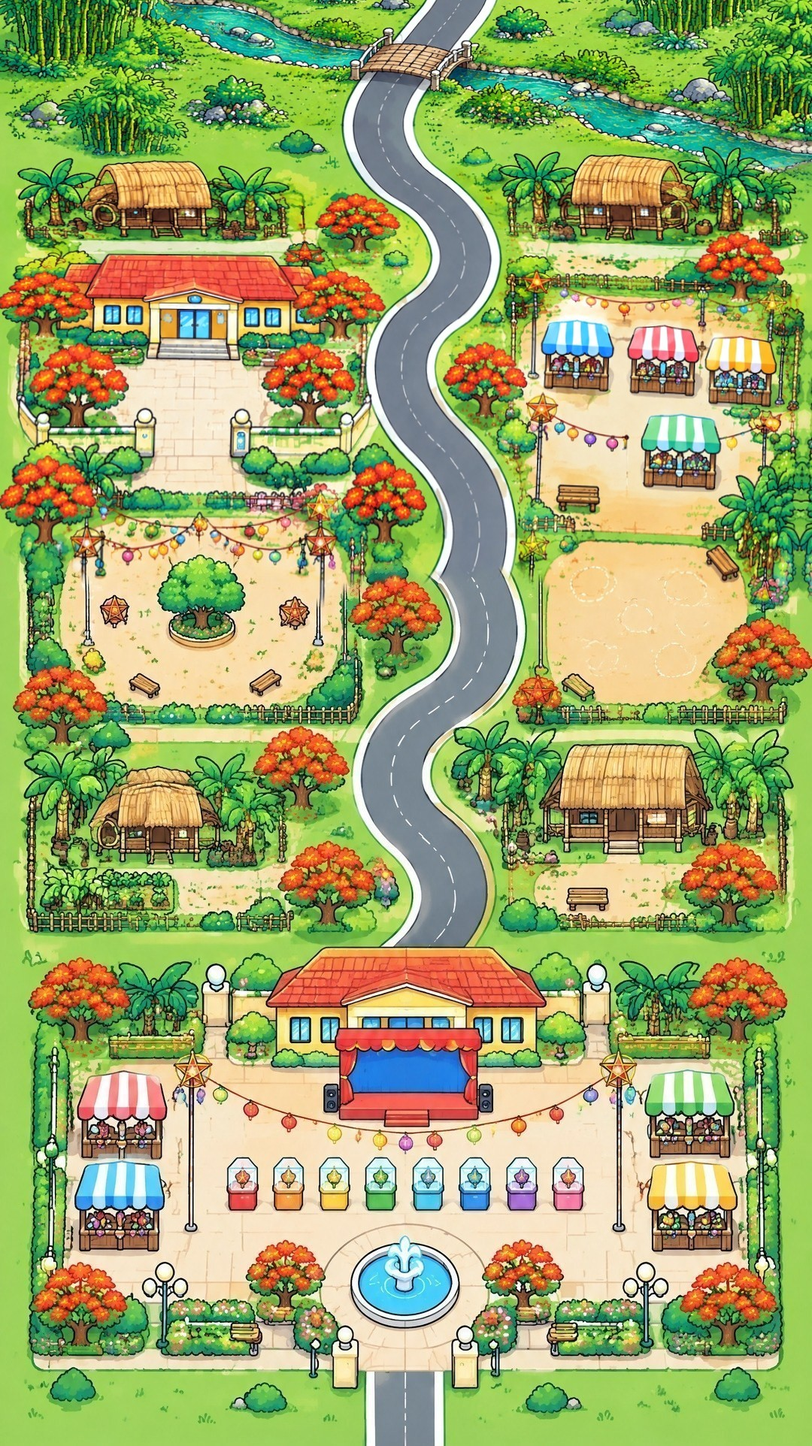
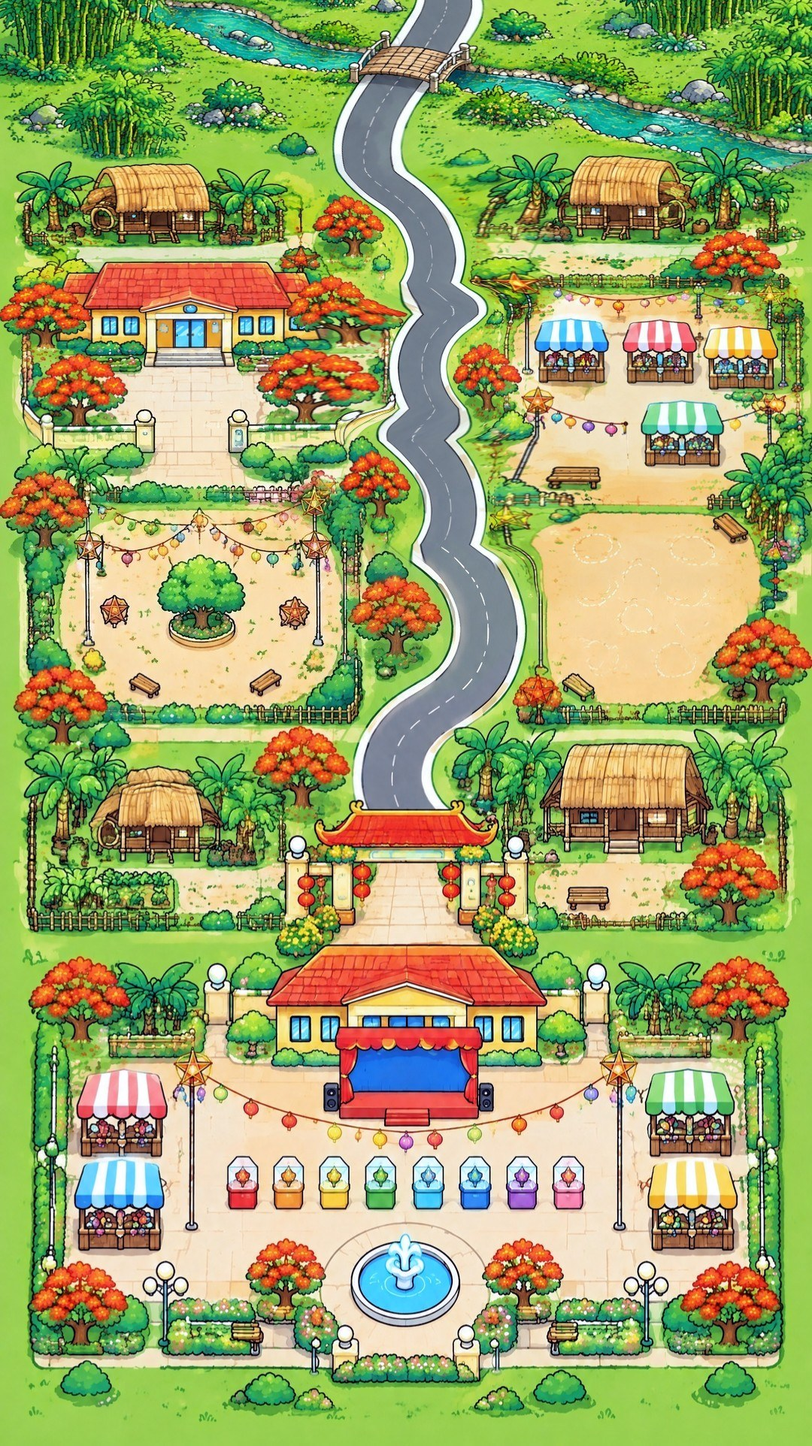
Bản đồ 9 mùa: hết méo nhà, hoa → mỏ chuyển dần, đường CLB dừng ở cổng
va-cho-noi.py không co giãn dọc ảnh sinh, đường cắt lách đất trống, nắn mặt đường theo hàng trong dải hẹp quanh đường.
Nối 6 dùng vd3 (khung 1920), cuối bản đồ dùng vd1.

diff --git a/phim-clb/tools/va-cho-noi.py b/phim-clb/tools/va-cho-noi.py
@@ -1,13 +1,14 @@
 # Vá chỗ nối giữa hai mùa trên ảnh dài: TopView vẽ lại dải chuyển cảnh (ảnh sinh từ một khung cắt quanh vết nối),
 # đặt dải mới vào lại ảnh dài. Hai mép dải không hoà mờ cả vùng mà cắt theo ĐƯỜNG CẮT TỐI ƯU (như noi-mua.py) ở chỗ
 # ảnh mới giống ảnh cũ nhất, viền mềm vài px; trước đó chỉnh màu ảnh mới cho khớp ảnh cũ (trung bình / độ lệch từng kênh
-# đo ở hai mép giữ nguyên) và kéo ảnh mới cho trùng hình ảnh cũ ở hai mép (SIFT + affine, rồi luồng quang học trơn).
-# python tools/va-cho-noi.py <dài vào.jpg> <dài ra.jpg> <tâm y> <cao khung> <ảnh sinh.png>
+# đo ở hai mép giữ nguyên) và dịch / co ngang ảnh mới cho đường trùng ảnh cũ (không co giãn dọc, xem dưới).
+# python tools/va-cho-noi.py <dài vào.jpg> <dài ra.jpg> <tâm y> <cao khung> <ảnh sinh.png> [tren]
 import sys
 import numpy as np
 from PIL import Image, ImageFilter
 
 vao, ra, TAM, CAO, sinh = sys.argv[1], sys.argv[2], int(sys.argv[3]), int(sys.argv[4]), sys.argv[5]
+CHI_TREN = 'tren' in sys.argv[6:]                           # chỉ giữ mép trên (đoạn cuối bản đồ: phần dưới lấy hết ảnh sinh)
 dai = np.asarray(Image.open(vao).convert('RGB')).astype(np.float32)
 W = dai.shape[1]
 y0 = TAM - CAO // 2
@@ -15,49 +16,74 @@ cu = dai[y0:y0 + CAO].copy()
 moi = np.asarray(Image.open(sinh).convert('RGB').resize((W, CAO), Image.LANCZOS)).astype(np.float32)
 MEP = CAO * 22 // 100                                         # dải cắt tìm trong 0..MEP (trên) và CAO-MEP..CAO (dưới)
 
-# ảnh sinh thường lệch tỉ lệ vài phần trăm (đường lệch 10–100 px ở mép). Bước 2 đo luồng quang học từ ảnh cũ sang ảnh sinh CHỈ ở hai mép
-# giữ nguyên, khớp mỗi mép bằng một mặt bậc hai trơn (bỏ điểm lệch lạ), rồi kéo ảnh sinh theo mặt đó: trọng số 1 ở mép,
-# giảm dần về 0 giữa dải. Mặt trơn nên không kéo nhòe chi tiết (lau sậy, cây) như khi dùng luồng từng điểm.
+# TopView vẽ lại thường thu nhỏ hình theo chiều dọc 15–25% (vật ở hai mép nhỏ hơn bản gốc) và lệch ngang vài chục px.
+# KHÔNG co giãn dọc để bù (bản 31/10 làm vậy nên nhà, container ở dải chuyển bị kéo méo): mỗi mép chỉ khớp
+#   ngang x' = a·x + b (để đường liền) và dịch dọc d (đo ở nửa trong của mép, sát chỗ cắt), từ điểm SIFT khớp (RANSAC);
+# a, b, d nội suy trơn theo hàng giữa hai mép. Hình trong ảnh sinh giữ nguyên tỉ lệ TopView vẽ.
 import cv2
 xam = lambda a: cv2.cvtColor(np.clip(a, 0, 255).astype(np.uint8), cv2.COLOR_RGB2GRAY)
 gx, gy = np.meshgrid(np.arange(W, dtype=np.float32), np.arange(CAO, dtype=np.float32))
-
-# bước 1 (lệch lớn, tới 100 px): mỗi mép một phép affine từ điểm SIFT khớp (RANSAC), nội suy affine theo hàng giữa hai mép
 sift = cv2.SIFT_create(4000)
 kb, db = sift.detectAndCompute(xam(moi), None)
-def affine(y0, y1):
+def khop(y0, y1, trong):
     m = np.zeros((CAO, W), np.uint8); m[y0:y1] = 255
     ka, da = sift.detectAndCompute(xam(cu), m)
     cap = [p for p, q in cv2.BFMatcher().knnMatch(da, db, k=2) if p.distance < 0.75 * q.distance]
     A = np.float32([ka[p.queryIdx].pt for p in cap]); B = np.float32([kb[p.trainIdx].pt for p in cap])
-    M, ok = cv2.estimateAffine2D(A, B, ransacReprojThreshold=4, maxIters=5000)
-    print('affine', y0, y1, 'khớp', int(ok.sum()), '/', len(cap), np.round(M, 3).tolist(), file=sys.stderr)
-    return M
-Mt, Md = affine(0, MEP), affine(CAO - MEP, CAO)
-s = np.clip((gy - MEP / 2) / (CAO - MEP), 0, 1); s = s * s * (3 - 2 * s)
-M = Mt[None, None] * (1 - s)[..., None, None] + Md[None, None] * s[..., None, None]
-mx = M[..., 0, 0] * gx + M[..., 0, 1] * gy + M[..., 0, 2]; my = M[..., 1, 0] * gx + M[..., 1, 1] * gy + M[..., 1, 2]
-moi = cv2.remap(moi, mx.astype(np.float32), my.astype(np.float32), cv2.INTER_LINEAR, borderMode=cv2.BORDER_REFLECT)
+    M, ok = cv2.estimateAffine2D(A, B, ransacReprojThreshold=5, maxIters=5000)
+    ok = ok.ravel().astype(bool)
+    a, b = np.polyfit(A[ok, 0], B[ok, 0], 1)                     # ngang: x' = a·x + b
+    sat = ok & (A[:, 1] >= trong[0]) & (A[:, 1] < trong[1])
+    d = float(np.median((B[sat] if sat.sum() >= 5 else B[ok])[:, 1] - (A[sat] if sat.sum() >= 5 else A[ok])[:, 1]))
+    print('khớp', y0, y1, 'điểm', int(ok.sum()), 'a b d', round(a, 3), round(b, 1), round(d, 1), file=sys.stderr)
+    return a, b, d
+kt = khop(0, MEP, (MEP // 2, MEP))
+kd = khop(CAO - MEP, CAO, (CAO - MEP, CAO - MEP // 2)) if not CHI_TREN else kt
+s = np.clip((gy - MEP) / max(CAO - 2 * MEP, 1), 0, 1); s = s * s * (3 - 2 * s)
+a, b, d = [kt[i] * (1 - s) + kd[i] * s for i in range(3)]
+moi = cv2.remap(moi, (a * gx + b).astype(np.float32), (gy + d).astype(np.float32), cv2.INTER_LINEAR, borderMode=cv2.BORDER_REFLECT)
 
-# bước 2 (lệch nhỏ còn lại)
-luong = cv2.DISOpticalFlow_create(cv2.DISOPTICAL_FLOW_PRESET_MEDIUM).calc(xam(cu), xam(moi), None)
-bac2 = lambda x, y: np.stack([np.ones_like(x), x, y, x * x, x * y, y * y], -1)
-def mat_tron(y0, y1):
-    ys, xs = np.mgrid[y0:y1:8, 0:W:8]
-    f = luong[ys, xs].reshape(-1, 2); A = bac2(xs.ravel() / W, ys.ravel() / CAO)
-    ok = np.ones(len(f), bool)
-    for _ in range(3):                                         # bỏ điểm lệch xa mặt (luồng sai ở chỗ phẳng / khác hình)
-        hs = np.linalg.lstsq(A[ok], f[ok], rcond=None)[0]
-        r = np.abs(A @ hs - f).sum(1); ok = r < max(2.0, 2.5 * np.median(r[ok]))
-    return bac2(gx / W, gy / CAO) @ hs
-yy = np.arange(CAO, dtype=np.float32)[:, None]
-tt = lambda d: 1 - np.clip(d / (CAO * 0.18), 0, 1) ** 2 * (3 - 2 * np.clip(d / (CAO * 0.18), 0, 1))
-wt, wd = tt(np.clip(yy - MEP, 0, None)), tt(np.clip(CAO - MEP - yy, 0, None))   # 1 ở mép trên / dưới → 0 giữa
-keo = mat_tron(0, MEP) * wt[..., None] + mat_tron(CAO - MEP, CAO) * wd[..., None]
-print('kéo mép trên', np.round(keo[MEP // 2, ::W // 4].tolist(), 1).tolist(), 'mép dưới', np.round(keo[CAO - MEP // 2, ::W // 4].tolist(), 1).tolist(), file=sys.stderr)
-moi = cv2.remap(moi, gx + keo[..., 0].astype(np.float32), gy + keo[..., 1].astype(np.float32), cv2.INTER_LINEAR, borderMode=cv2.BORDER_REFLECT)
+# khớp riêng MẶT ĐƯỜNG: điểm SIFT nằm chủ yếu trên nhà cửa nên đường vẫn có thể lệch ngang vài chục px ở chỗ cắt.
+def tam_duong(a, y):
+    mx, mn = a[y].max(-1), a[y].min(-1)
+    r, b = a[y, :, 0], a[y, :, 2]
+    xs = np.flatnonzero((mx - mn < 38) & (mx > 95) & (mx < 165) & (b >= r - 4))     # nhựa đường xám ngả xanh
+    if xs.size < 40: return None
+    runs = [r for r in np.split(xs, np.flatnonzero(np.diff(xs) > 14) + 1) if 60 <= r[-1] - r[0] <= 230 and r.size > 0.6 * (r[-1] - r[0])]
+    return min(((r[0] + r[-1]) / 2 for r in runs), key=lambda c: abs(c - W / 2)) if runs else None
+TIM0 = CAO * 38 // 100
+# lệch đường theo TỪNG HÀNG (đường cong nên lệch dọc thành lệch ngang khác nhau mỗi hàng): đo ở vùng tìm cắt hai mép,
+# lọc trung vị, hàng không thấy đường thì nội suy; ngoài hai vùng giảm mượt về 0 trong 160 hàng
+ys = np.arange(CAO); dx = np.full(CAO, np.nan)
+for y in np.r_[np.arange(0, TIM0), np.arange(CAO - TIM0, CAO)] if not CHI_TREN else np.arange(0, TIM0):
+    c, m = tam_duong(cu, y), tam_duong(moi, y)
+    if c is not None and m is not None and abs(c - m) < 80: dx[y] = c - m
+for v0, v1, mep in ((0, TIM0, TIM0), (CAO - TIM0, CAO, CAO - TIM0)):
+    k = ~np.isnan(dx[v0:v1])
+    if k.sum() < 10: dx[v0:v1] = 0; continue
+    seg = np.interp(ys[v0:v1], ys[v0:v1][k], dx[v0:v1][k])
+    from scipy.ndimage import median_filter, gaussian_filter1d
+    dx[v0:v1] = gaussian_filter1d(median_filter(seg, 31), 8)
+giua = np.isnan(dx)
+dx[giua] = 0
+xa_t = np.clip((ys - TIM0) / 160, 0, 1); xa_d = np.clip((CAO - TIM0 - ys) / 160, 0, 1)
+for y in ys[giua]:
+    dx[y] = dx[TIM0 - 1] * (1 - xa_t[y]) ** 2 * (y >= TIM0) + (0 if CHI_TREN else dx[CAO - TIM0] * (1 - xa_d[y]) ** 2 * (y < CAO - TIM0))
+print('lệch đường theo hàng: trên', round(float(np.abs(dx[:TIM0]).max()), 1), 'dưới', round(float(np.abs(dx[CAO - TIM0:]).max()), 1), file=sys.stderr)
+# chỉ nắn mặt đường và lề, chặn 40 px: nhà, luống hoa ở xa giữ nguyên hình
+dx = np.clip(dx, -40, 40)
+tam_m = np.full(CAO, np.nan)
+for y in range(0, CAO, 4):
+    c = tam_duong(moi, y)
+    if c is not None: tam_m[y] = c
+k = ~np.isnan(tam_m)
+tam_m = np.interp(ys, ys[k], tam_m[k]) if k.sum() > 10 else np.full(CAO, W / 2)
+from scipy.ndimage import gaussian_filter1d as _g
+tam_m = _g(tam_m, 12)
+w = np.clip(1.25 - np.abs(gx - tam_m[:, None]) / 110, 0, 1)            # mặt đường + lề (~90 px mỗi bên) dịch đủ, ra 140 px thì 0
+moi = cv2.remap(moi, (gx - dx[:, None] * w).astype(np.float32), gy, cv2.INTER_LINEAR, borderMode=cv2.BORDER_REFLECT)
 
-giu = np.r_[np.arange(MEP), np.arange(CAO - MEP, CAO)]
+giu = np.arange(MEP) if CHI_TREN else np.r_[np.arange(MEP), np.arange(CAO - MEP, CAO)]
 for c in range(3):                                            # khớp màu từng kênh theo hai mép giữ nguyên
     a, b = cu[giu, :, c], moi[giu, :, c]
     moi[..., c] = (moi[..., c] - b.mean()) * (a.std() / max(b.std(), 1)) + a.mean()
@@ -77,12 +103,15 @@ def duong_cat(sai):
     return hang
 
 sai = np.abs(cu - moi).sum(-1)
-tren = duong_cat(sai[:MEP])                                   # trên đường này giữ ảnh cũ
-duoi = CAO - MEP + duong_cat(sai[-MEP:])                      # dưới đường này giữ ảnh cũ
+# tìm đường cắt trong vùng rộng hơn mép khớp (tới 38% khung) để đường cắt lách qua đất trống, không cắt ngang nhà
+# (ảnh sinh không co giãn dọc nên nhà ở mép có thể lệch vài chục px so với bản gốc)
+TIM = CAO * 38 // 100
+tren = duong_cat(sai[:TIM])                                   # trên đường này giữ ảnh cũ
+duoi = np.full(W, CAO + 2 * 8) if CHI_TREN else CAO - TIM + duong_cat(sai[-TIM:])   # dưới đường này giữ ảnh cũ
 MEM = 8
 yy = np.arange(CAO)[:, None]
 t = np.clip((yy - tren[None] + MEM) / (2 * MEM), 0, 1) * np.clip((duoi[None] - yy + MEM) / (2 * MEM), 0, 1)
 dai[y0:y0 + CAO] = cu * (1 - t[..., None]) + moi * t[..., None]
 print('cắt trên', int(tren.min()), '..', int(tren.max()), 'dưới', int(duoi.min()), '..', int(duoi.max()),
-      'sai trung bình', round(float(sai[tren, np.arange(W)].mean()), 1), round(float(sai[duoi, np.arange(W)].mean()), 1), file=sys.stderr)
+      'sai trung bình', round(float(sai[tren, np.arange(W)].mean()), 1), round(float(sai[np.clip(duoi, 0, CAO - 1), np.arange(W)].mean()), 1), file=sys.stderr)
 Image.fromarray(np.clip(dai, 0, 255).astype(np.uint8)).save(ra, quality=90)
